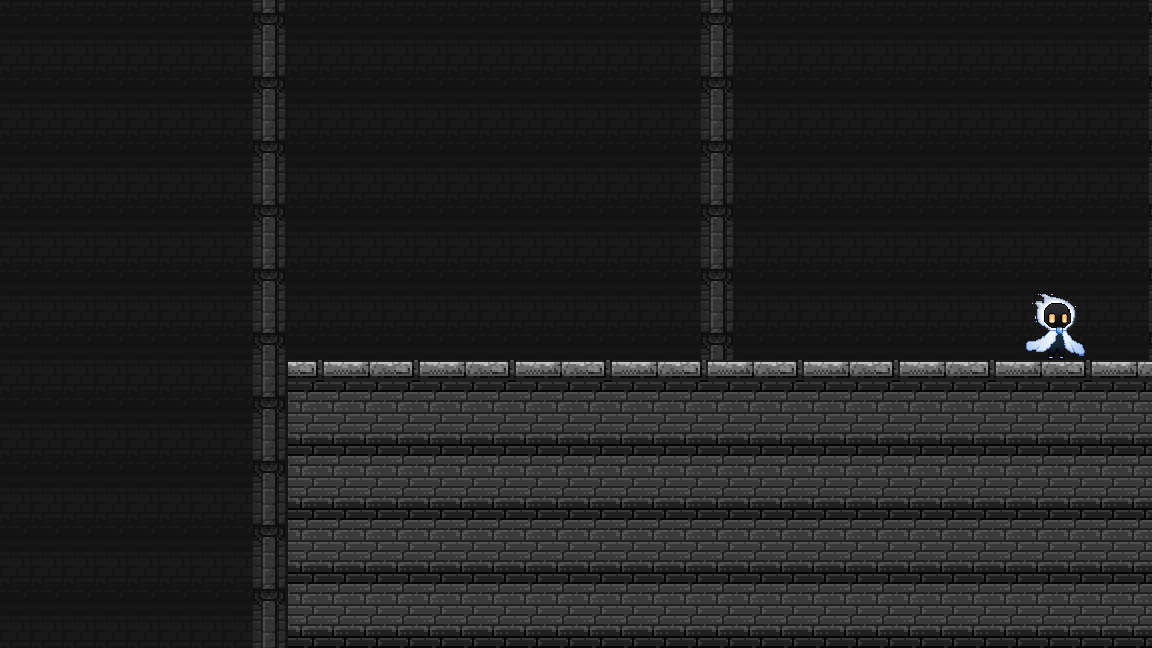
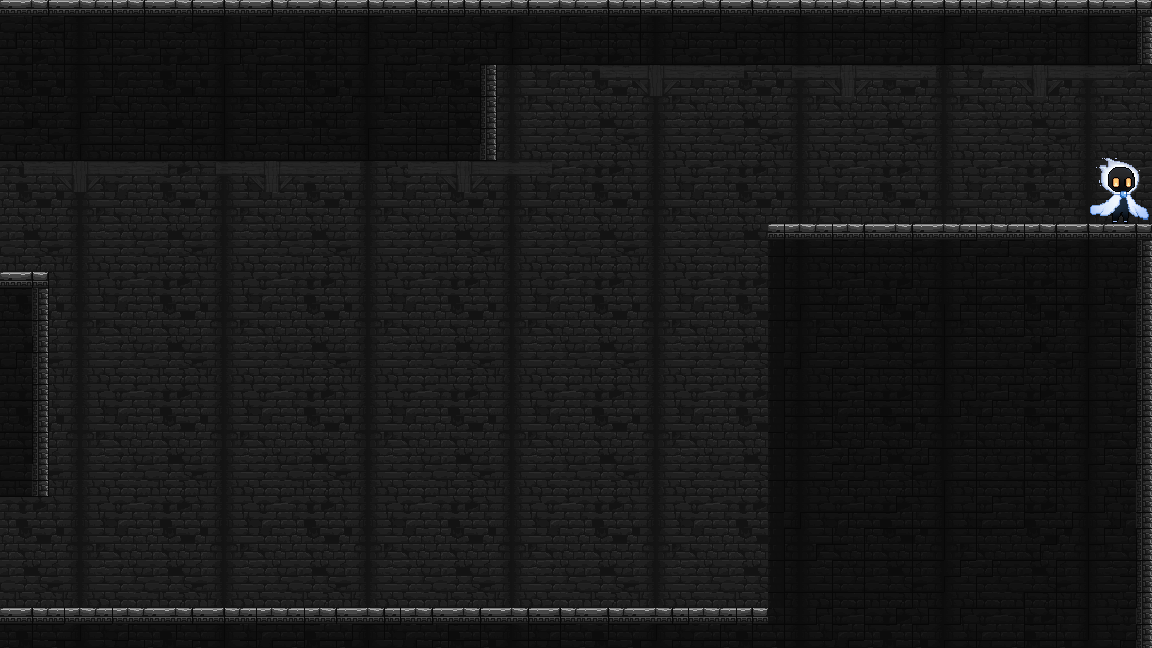
축소한 사원 맵과 새 타일 배경 프리뷰 및 크기 안내 갱신

diff --git a/tools/preview_tutorial.py b/tools/preview_tutorial.py
@@ -62,8 +62,7 @@ def main():
                 overview.paste(shot.crop((left-camera_x, source_top,
                                           left-camera_x+width, source_top+height)),
                                (left, level.height-bottom-height))
-        overview.resize((2048, level.height // 2), Image.Resampling.NEAREST).save(
-            out / 'tutorial_overview.png')
+        overview.save(out / 'tutorial_overview.png')
         player.x, player.y = level.end_x + 32, level.end_y + player.FOOT_OFFSET
         camera = Camera(1152, level.width, level.height)
         camera.follow(player.x, player.y)

diff --git a/README.md b/README.md
@@ -4,7 +4,9 @@
 전체화면 16:9로 시작합니다.
 
 현재 실행 화면은 11월 18일 수정한 프리뷰에 맞춘 흑백 타일 맵입니다.
-색 기믹과 설명창을 제외하고, 배치를 32픽셀 격자에 맞췄습니다.
+색 기믹과 설명창을 제외하고, 배치를 16픽셀 격자에 맞췄습니다.
+맵 크기는 1792×672픽셀이고 시작 방의 바닥부터 천장까지는 144픽셀로 캐릭터 몸 높이의 약 2.3배입니다.
+지형과 벽돌 배경, 목재 지지대는 main_lev_build 타일의 흑백 버전을 사용합니다.
 머리 위 키 아이콘을 캐릭터에 가깝게 표시합니다.
 검게 표시한 가로 발판은 아래에서 올라갈 수 있으며 위에서 S를 눌러 내려갑니다.
 프리뷰의 높은 단차를 유지하여 현재 점프만으로 출구까지 연속 진행할 수는 없습니다.
